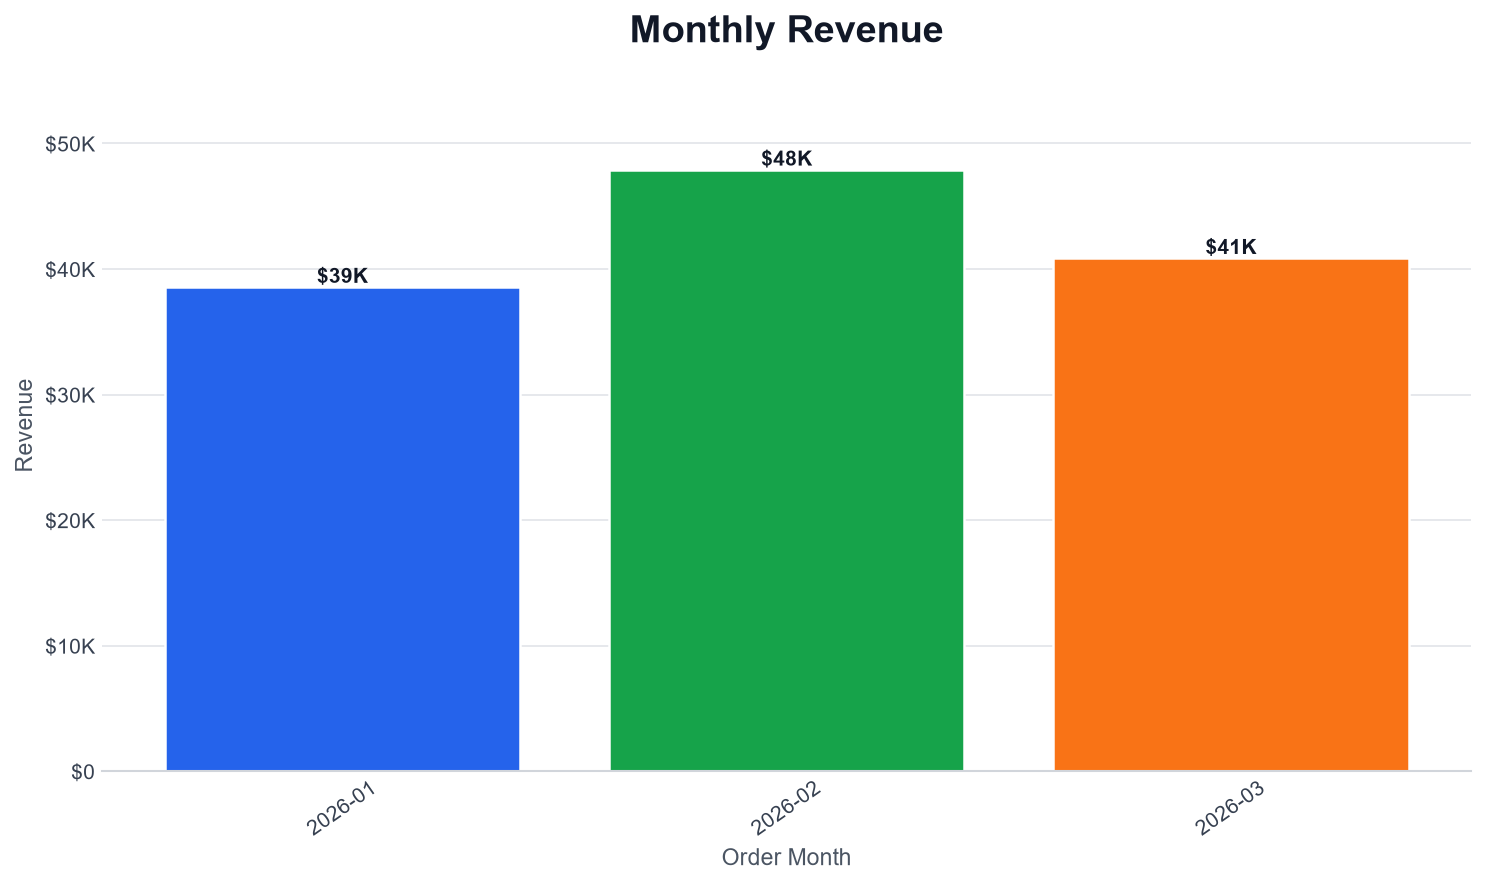
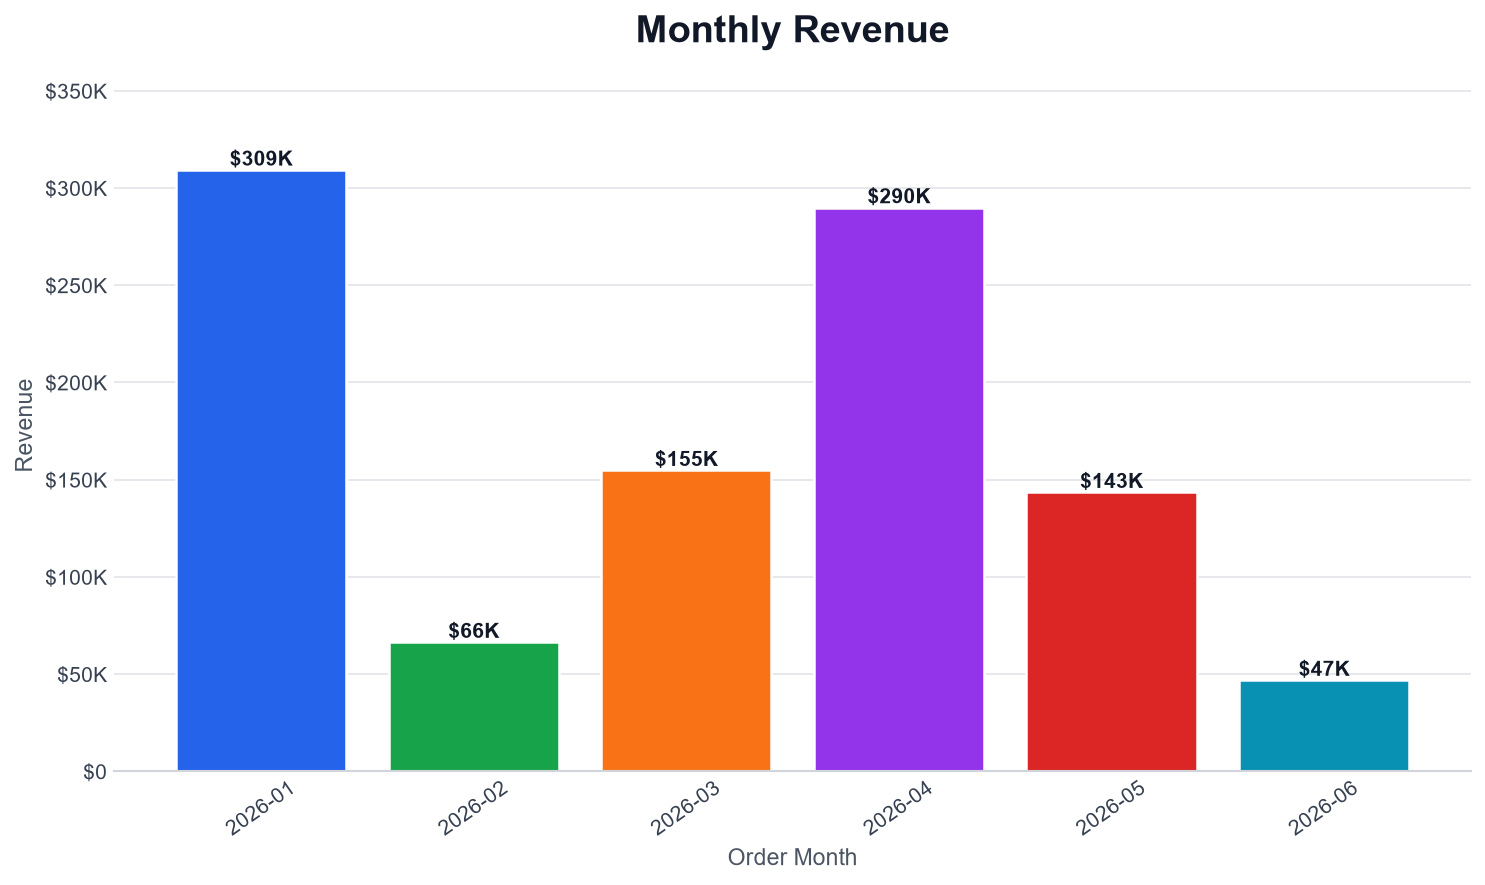
Update sales dataset and outputs

diff --git a/output/reports/sales_summary.md b/output/reports/sales_summary.md
@@ -6,38 +6,44 @@ This report was generated from cleaned sales data loaded into a SQLite database.
 
 |   total_revenue |
 |----------------:|
-|          127290 |
+|     1.01049e+06 |
 
 ## Monthly Revenue
 
 | order_month   |   monthly_revenue |
 |:--------------|------------------:|
-| 2026-01       |             38550 |
-| 2026-02       |             47890 |
-| 2026-03       |             40850 |
+| 2026-01       |            309245 |
+| 2026-02       |             66344 |
+| 2026-03       |            154756 |
+| 2026-04       |            289884 |
+| 2026-05       |            143443 |
+| 2026-06       |             46816 |
 
 ## Top Products
 
-| product   |   total_revenue |
-|:----------|----------------:|
-| Laptop    |           88500 |
-| Monitor   |           20800 |
-| Keyboard  |            5950 |
-| Mouse     |            4950 |
-| Webcam    |            3750 |
+| product      |   total_revenue |
+|:-------------|----------------:|
+| Laptop       |          471675 |
+| Printer      |          127725 |
+| Monitor      |          115440 |
+| RAM 16GB     |           64488 |
+| External HDD |           54121 |
 
 ## Region Revenue
 
-| region     |   total_revenue |
-|:-----------|----------------:|
-| Bangkok    |           70390 |
-| Phuket     |           32900 |
-| Chiang Mai |           14450 |
-| Khon Kaen  |            6150 |
-| Unknown    |            3400 |
+| region            |   total_revenue |
+|:------------------|----------------:|
+| Rayong            |          239616 |
+| Khon Kaen         |          210436 |
+| Bangkok           |          204772 |
+| Chonburi          |          137717 |
+| Nakhon Ratchasima |           83604 |
+| Phuket            |           71428 |
+| Chiang Mai        |           55595 |
+| Unknown           |            7320 |
 
 ## Average Order Value
 
 |   average_order_value |
 |----------------------:|
-|               7071.67 |
+|               8786.85 |